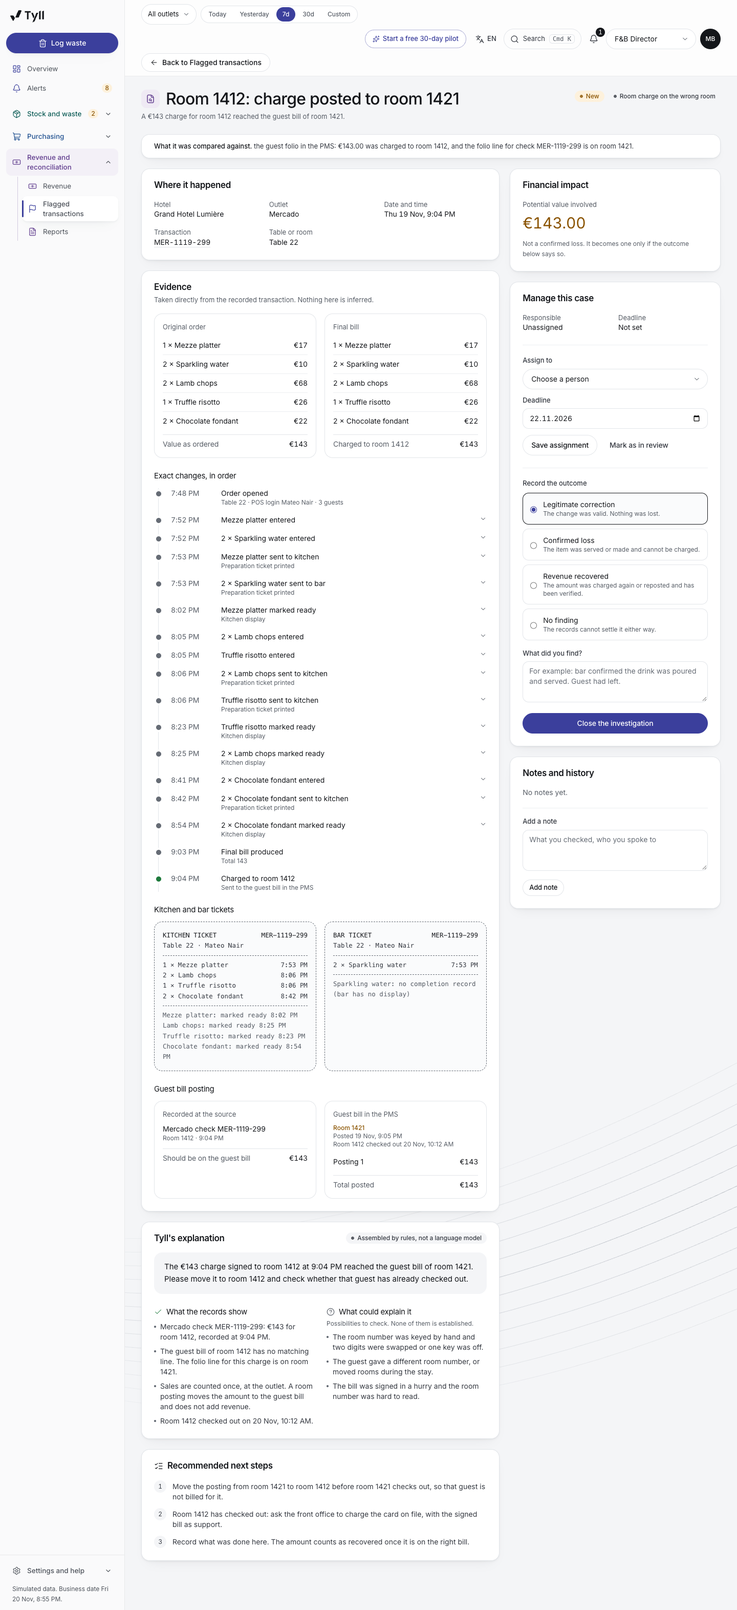
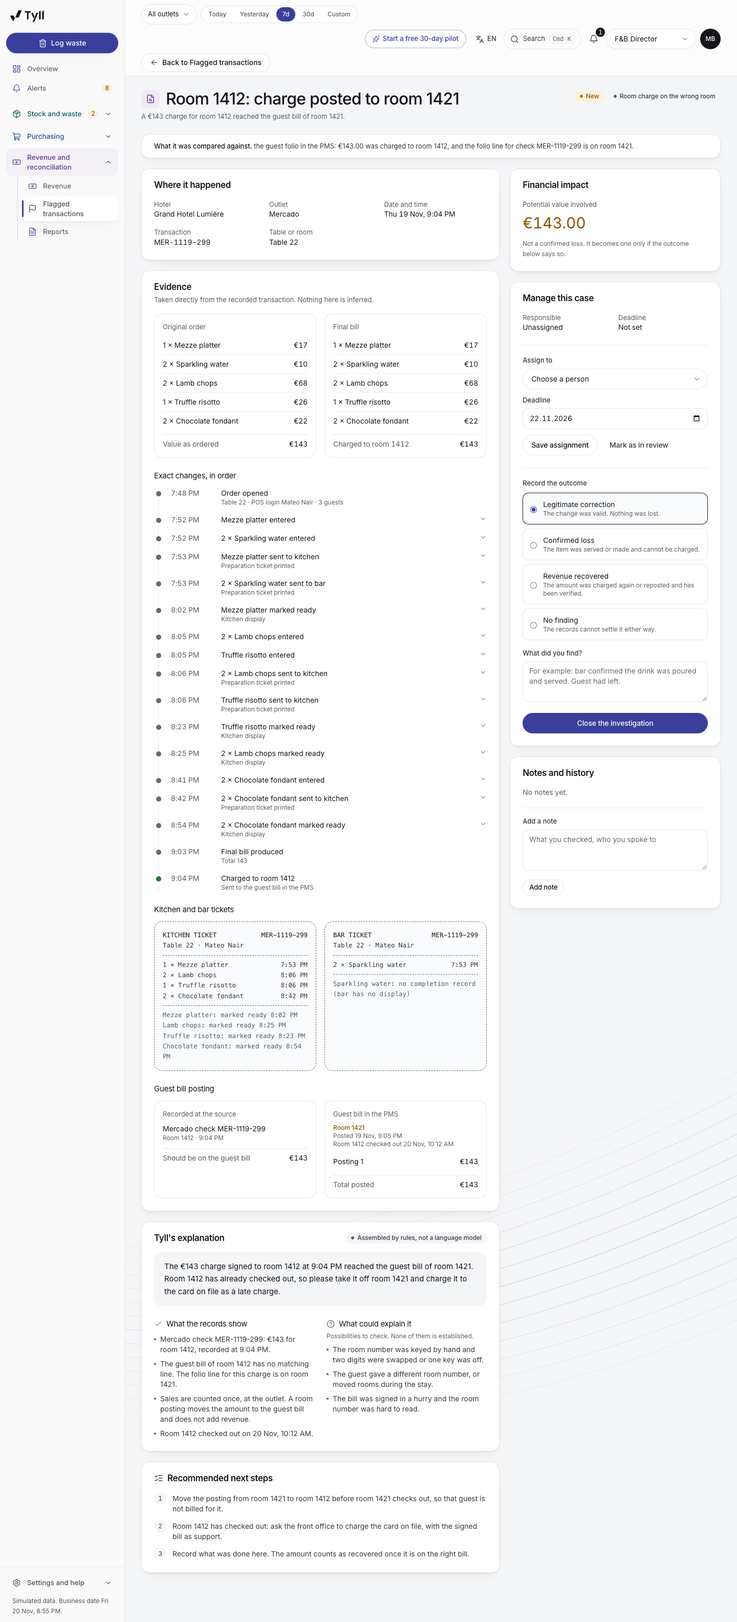
Feature 1: review fixes, room charges no longer take over the demo's money story
- Room charge difference rates in one constant (ROOM_RATES), lowered to about one charge in two hundred
- Minibar, spa and laundry simulated over the whole history, so the 30 day trend has no step
- Public demo keeps a stable 10% sample of other closed cases of the last 30 days besides the twelve newest
- Overview money lost on 20 Nov: EUR 10,642 (was 12,031); test pins room share and flagged bills total
- Flags per 1,000 orders counts each flagged order once
- Flagged orders names the charge source instead of "None"
- Wrong room message agrees with a recorded check-out (translated)

diff --git a/src/lib/data/generate.ts b/src/lib/data/generate.ts
@@ -260,6 +260,19 @@ function buildOrders(): Order[] {
   return orders;
 }
 
+/**
+ * How often a room charge fails to match the guest bill. An interfaced till and PMS lose very few postings, so these stay
+ * small: about one charge in two hundred, and room charges a minority of the flagged bills (pinned by a test).
+ */
+export const ROOM_RATES = {
+  missing: { outlet: 0.0008, minibar: 0.003, spa: 0.002, laundry: 0.002 },
+  duplicate: 0.0004,
+  amount: 0.0015,
+  /** A room number keyed one key off at an outlet till. */
+  wrongRoom: 0.0008,
+  afterCheckout: { minibar: 0.008, breakfast: 0.0015 },
+} as const;
+
 /** A room number one slip of the keyboard away: the last two digits swapped, or the last digit one off. */
 function neighbourRoom(room: string, r: Rng): string {
   const floor = room.slice(0, -2);
@@ -282,13 +295,13 @@ function withFolio(c: RoomCharge): RoomCharge {
   const clean = c.posted.length === 1 && c.posted[0] === c.expected;
   if (!clean) return { ...c, postedMin, checkoutMin };
   // A room number keyed by hand at an outlet till, one key off.
-  if (c.source === "restaurant" && r.chance(0.0025)) return { ...c, postedMin, checkoutMin, folioRoom: neighbourRoom(c.room, r) };
-  if (c.source === "minibar" && c.min < 13 * 60 && r.chance(0.07)) {
+  if (c.source === "restaurant" && r.chance(ROOM_RATES.wrongRoom)) return { ...c, postedMin, checkoutMin, folioRoom: neighbourRoom(c.room, r) };
+  if (c.source === "minibar" && c.min < 13 * 60 && r.chance(ROOM_RATES.afterCheckout.minibar)) {
     // Housekeeping found the minibar used when servicing a departure room, after the guest had gone. Rooms are serviced
     // late morning, and guests leave between 7 AM and noon, so only charges recorded before 1 PM can arrive this way.
     // Charges start at 8 AM, so check-out is always at least 15 minutes before the posting.
     checkoutMin = Math.min(12 * 60, Math.max(7 * 60, c.min - r.int(15, 150)));
-  } else if ((c.source === "restaurant" || c.source === "room_service") && c.min < 11 * 60 && r.chance(0.006)) {
+  } else if ((c.source === "restaurant" || c.source === "room_service") && c.min < 11 * 60 && r.chance(ROOM_RATES.afterCheckout.breakfast)) {
     // A breakfast posting held in the interface queue while the guest checked out.
     postedMin = c.min + r.int(75, 200);
     checkoutMin = c.min + r.int(10, postedMin - c.min - 5);
@@ -298,10 +311,11 @@ function withFolio(c: RoomCharge): RoomCharge {
 
 function buildRoomCharges(orders: Order[]): RoomCharge[] {
   const out: RoomCharge[] = [];
+  // The interface between the tills and the PMS rarely fails (ROOM_RATES).
   const posted = (expected: number, r: Rng, missRate: number): number[] => {
     if (r.chance(missRate)) return [];
-    if (r.chance(0.0025)) return [expected, expected];
-    if (r.chance(0.0035)) return [round2(expected * r.pick([0.5, 0.75, 0.9, 1.1]))];
+    if (r.chance(ROOM_RATES.duplicate)) return [expected, expected];
+    if (r.chance(ROOM_RATES.amount)) return [round2(expected * r.pick([0.5, 0.75, 0.9, 1.1]))];
     return [expected];
   };
   for (const o of orders) {
@@ -313,12 +327,12 @@ function buildRoomCharges(orders: Order[]): RoomCharge[] {
     out.push({
       id: `RC-${o.id}`, propertyId: outlet.propertyId, outletId: o.outletId, date: o.date, min: o.closeMin, room: o.room!,
       source: outlet.kind === "In-room dining" ? "room_service" : "restaurant", description: `${outlet.name} check ${o.id}`,
-      orderId: o.id, expected: t.net, posted: posted(t.net, r, 0.006),
+      orderId: o.id, expected: t.net, posted: posted(t.net, r, ROOM_RATES.missing.outlet),
     });
   }
-  // Minibar, spa and laundry postings for the last three weeks.
+  // Minibar, spa and laundry postings over the whole history, so every period and its trend compares like with like.
   for (const p of PROPERTIES) {
-    for (const date of eachDay({ from: addDays(DEMO_TODAY, -20), to: DEMO_TODAY })) {
+    for (const date of eachDay({ from: DATA_START, to: DEMO_TODAY })) {
       const r = rng(`svc|${p.id}|${date}`);
       const mk = (source: RoomCharge["source"], n: number, lo: number, hi: number, label: string, miss: number) => {
         for (let i = 1; i <= n; i++) {
@@ -332,9 +346,9 @@ function buildRoomCharges(orders: Order[]): RoomCharge[] {
           });
         }
       };
-      mk("minibar", r.int(16, 26), 5, 35, "Minibar consumption recorded by housekeeping", 0.016);
-      mk("spa", r.int(5, 10), 70, 240, "Spa treatment", 0.006);
-      mk("laundry", r.int(4, 9), 12, 65, "Laundry and pressing", 0.008);
+      mk("minibar", r.int(16, 26), 5, 35, "Minibar consumption recorded by housekeeping", ROOM_RATES.missing.minibar);
+      mk("spa", r.int(5, 10), 70, 240, "Spa treatment", ROOM_RATES.missing.spa);
+      mk("laundry", r.int(4, 9), 12, 65, "Laundry and pressing", ROOM_RATES.missing.laundry);
     }
   }
   return out.map(withFolio);

diff --git a/src/lib/__tests__/room-charges.test.ts b/src/lib/__tests__/room-charges.test.ts
@@ -117,6 +117,13 @@ describe("room charge data and totals", () => {
     const why = explain(e, d, d.counts, []);
     expect(why.recommended[0]).toContain(`from room ${ROOM_STORY.folioRoom} to room ${ROOM_STORY.room}`);
     expect(why.facts.join(" ")).toContain(`Room ${ROOM_STORY.room} checked out`);
+    // The message agrees with the facts: the guest has left, so it asks for the card on file, not whether they left.
+    expect(why.message).toContain(`Room ${ROOM_STORY.room} has already checked out`);
+    expect(why.message).not.toContain("check whether");
+    const inHouse = { ...c, id: "RC-INHOUSE", checkoutMin: undefined };
+    const ds = { ...d, chargesById: new Map([...d.chargesById, [inHouse.id, inHouse]]) };
+    const stay = explain({ ...e, id: "EX-INHOUSE", chargeId: inHouse.id }, ds, d.counts, []);
+    expect(stay.message).toContain("check whether that guest has already checked out");
   });
 
   it("keeps every open room charge case in the public demo, so each listed difference can be reviewed", () => {
@@ -211,8 +218,14 @@ describe("room charge check on the server", () => {
       // The check reaches no further back than the cases the public demo keeps.
       const far = roomCheckFor(fnb, { from: DATA_START, to: DEMO_TODAY });
       expect(far.ok && far.from).toBe(demoRoomCheckFrom());
-      // Closed room cases have their own rule, so twelve other closed cases per hotel stay too.
-      expect(kept.filter((e) => !ROOM_TYPES.includes(e.type) && d0.seedInvestigations[e.id].status === "closed").length).toBe(12);
+      // Closed room cases have their own rule, so the twelve newest other closed cases per hotel stay too, plus a share of
+      // the other closed cases of the last 30 days, and nothing older.
+      const otherClosed = d0.exceptions.filter((e) => !ROOM_TYPES.includes(e.type) && d0.seedInvestigations[e.id].status === "closed");
+      const newest = [...otherClosed].sort((a, b) => b.date.localeCompare(a.date)).slice(0, 12);
+      for (const e of newest) expect(keptIds.has(e.id)).toBe(true);
+      const keptClosed = otherClosed.filter((e) => keptIds.has(e.id));
+      expect(keptClosed.length).toBeGreaterThan(12);
+      for (const e of keptClosed) expect(newest.includes(e) || e.date >= demoRoomCheckFrom()).toBe(true);
     } finally {
       if (was === undefined) delete process.env.TYLL_PUBLIC_DEMO;
       else process.env.TYLL_PUBLIC_DEMO = was;
@@ -220,6 +233,28 @@ describe("room charge check on the server", () => {
     // Outside the public demo the check still reaches back to the start of the data.
     const full = roomCheckFor(fnb, { from: DATA_START, to: DEMO_TODAY });
     expect(full.ok && full.from).toBe(DATA_START);
+  });
+
+  it("keeps room charges a minority of the public demo's flagged bills, and the Overview's money lost near the story's figure", () => {
+    // The Overview's "Flagged bills" row: every case of the last 30 days that is not a stock count, open or closed.
+    const from = addDays(DEMO_TODAY, -29);
+    const bills = demoCases(d0.exceptions, d0.seedInvestigations).filter((e) => e.date >= from && !e.period);
+    const lost = bills.reduce((t, e) => t + e.exposure, 0);
+    const room = bills.filter((e) => ROOM_TYPES.includes(e.type)).reduce((t, e) => t + e.exposure, 0);
+    expect(room).toBeGreaterThan(0);
+    expect(room / lost).toBeLessThan(0.6);
+    // The other rows of money lost come to about EUR 9,400, so this keeps the headline near EUR 10,000 (CLAUDE.md).
+    expect(lost).toBeLessThan(1500);
+    // Room charge differences stay rare: under one charge in a hundred over the 30 days.
+    const charges = d0.roomCharges.filter((c) => c.date >= from);
+    expect(charges.filter((c) => classifyRoomCharge(c) !== "matched").length / charges.length).toBeLessThan(0.01);
+  });
+
+  it("simulates minibar, spa and laundry over the whole history, so the 30 day trend has no step", () => {
+    for (const source of ["minibar", "spa", "laundry"] as const) {
+      const days = new Set(d0.roomCharges.filter((c) => c.source === source).map((c) => c.date));
+      for (const date of eachDay({ from: addDays(DEMO_TODAY, -29), to: addDays(DEMO_TODAY, -1) })) expect(days.has(date)).toBe(true);
+    }
   });
 
   it("is reached from Flagged transactions in the sidebar", () => {

diff --git a/src/app/money/page.tsx b/src/app/money/page.tsx
@@ -22,7 +22,7 @@ import { POLICY, TYPE_LABEL, detectOrderException } from "@/lib/domain/detect";
 import { adjustmentRate, compare, computeTotals, exceptionInSel, totalsByOutlet } from "@/lib/domain/metrics";
 import { orderTotals } from "@/lib/domain/orders";
 import { useApi, useCtx, useInvestigations, usePatterns, useView } from "@/lib/hooks";
-import { STATUS_LABEL } from "@/lib/labels";
+import { SOURCE_LABEL, STATUS_LABEL } from "@/lib/labels";
 import { useDemo } from "@/lib/store";
 import type { ExceptionType, Order } from "@/lib/types";
 import { DEMO_TODAY, eachDay, fmtDate, fmtMoney, fmtNum, fmtPct, fmtRange, fmtShort, fmtTime, fxRate, presetRange, sum } from "@/lib/util";
@@ -269,7 +269,11 @@ function Mistakes() {
                 {[...inPeriod].sort((a, b) => Number(a.status === "closed") - Number(b.status === "closed") || toDisplay(b.propertyId, b.exposure) - toDisplay(a.propertyId, a.exposure)).slice(0, 8).map((i) => (
                   <tr key={i.id} className={cn(rowClass, "cursor-pointer")} onClick={() => router.push(`/investigations/${i.id}`)}>
                     <Td><Link href={`/investigations/${i.id}`} className="text-ink underline-offset-4 hover:underline" onClick={(e) => e.stopPropagation()}>{i.headline}</Link><span className="mt-0.5 block text-xs text-steel">{TYPE_LABEL[i.type]}{i.basis === "estimate" ? ", estimate until a stock take confirms it" : i.basis === "confirmed" ? ", confirmed by a stock take" : ""}</span>{i.comparedWith && <span className="mt-0.5 line-clamp-2 block max-w-[460px] text-xs text-graphite">{i.comparedWith}</span>}</Td>
-                    <Td>{i.outletId ? outletLabel(i.outletId) : "None"}</Td>
+                    <Td>{i.outletId ? outletLabel(i.outletId) : (() => {
+                      // Minibar, spa and laundry belong to the hotel, not an outlet: name the source, as the room charge check does.
+                      const charge = i.chargeId ? ctx.data.chargesById.get(i.chargeId) : undefined;
+                      return <span className="text-steel">{charge ? SOURCE_LABEL[charge.source] : propertyById[i.propertyId].name}</span>;
+                    })()}</Td>
                     <Td className="num whitespace-nowrap text-graphite">{fmtDate(i.date)}, {fmtTime(i.min)}</Td>
                     <Td align="right">{money(toDisplay(i.propertyId, i.exposure))}</Td>
                     <Td><Badge tone={i.status === "closed" ? "neutral" : i.status === "new" ? "warn" : "ink"}>{STATUS_LABEL[i.status]}</Badge></Td>

diff --git a/src/lib/data/demo-cases.ts b/src/lib/data/demo-cases.ts
@@ -1,11 +1,17 @@
 // The public demo shows a short, believable list of flags. The full set stays in the dataset and in every other mode.
 import { HERO_EXCEPTION_ID, ROOM_STORY_EXCEPTION_ID } from "./constants";
 import type { Exception, InvestigationState } from "../types";
-import { DEMO_TODAY, addDays } from "../util";
+import { DEMO_TODAY, addDays, rng } from "../util";
 
 const OPEN_OTHERS_PER_HOTEL = 3;
 const OPEN_MAX_PER_HOTEL = 12;
 const CLOSED_PER_HOTEL = 12;
+/**
+ * Besides the twelve newest, this share of the other closed cases of the last 30 days is kept, drawn by case id so a case
+ * stays in or out as the days move. The 30 day views then keep the same mix of kinds as the full data, without the
+ * Overview's money lost growing past the story's figure (about EUR 10,000).
+ */
+const CLOSED_SAMPLE = 0.1;
 
 /**
  * The first day of the room charge check in the public demo: the last 30 days, the longest period the check offers (a
@@ -18,8 +24,8 @@ const isRoom = (e: Exception) => e.type.startsWith("room_charge");
 
 /**
  * The worked examples, every room charge case in the last 30 days (the room charge check lists each one, so each needs
- * its case), then up to three of the largest other open cases while the hotel stays within twelve open, and the twelve
- * most recent other closed cases for each hotel.
+ * its case), then up to three of the largest other open cases while the hotel stays within twelve open, the twelve
+ * most recent other closed cases for each hotel, and a fixed share of the other closed cases of the last 30 days.
  */
 export function demoCases(exceptions: readonly Exception[], seed: Record<string, InvestigationState>): Exception[] {
   const keep = new Set<string>();
@@ -37,5 +43,6 @@ export function demoCases(exceptions: readonly Exception[], seed: Record<string,
   const closed = new Map<string, Exception[]>();
   for (const e of exceptions) if (seed[e.id]?.status === "closed" && !isRoom(e)) closed.set(e.propertyId, [...(closed.get(e.propertyId) ?? []), e]);
   for (const list of closed.values()) for (const e of [...list].sort((a, b) => b.date.localeCompare(a.date)).slice(0, CLOSED_PER_HOTEL)) keep.add(e.id);
+  for (const list of closed.values()) for (const e of list) if (e.date >= roomFrom && rng(`demo-case|${e.id}`).chance(CLOSED_SAMPLE)) keep.add(e.id);
   return exceptions.filter((e) => keep.has(e.id));
 }

diff --git a/src/lib/domain/explain.ts b/src/lib/domain/explain.ts
@@ -83,7 +83,11 @@ export function explain(e: Exception, data: Dataset, counts: readonly CountRecor
         charge.checkoutMin !== undefined ? `Room ${charge.room} has checked out: ask the front office to charge the card on file, with the signed bill as support.` : `Post the charge to room ${charge.room} while the guest is still in house.`,
         "Record what was done here. The amount counts as recovered once it is on the right bill.",
       ];
-      base.message = `The ${money(charge.expected)} charge signed to room ${charge.room} at ${fmtTime(charge.min)} reached the guest bill of room ${charge.folioRoom}. Please move it to room ${charge.room} and check whether that guest has already checked out.`;
+      base.message = `The ${money(charge.expected)} charge signed to room ${charge.room} at ${fmtTime(charge.min)} reached the guest bill of room ${charge.folioRoom}. ${
+        charge.checkoutMin !== undefined
+          ? `Room ${charge.room} has already checked out, so please take it off room ${charge.folioRoom} and charge it to the card on file as a late charge.`
+          : `Please move it to room ${charge.room} and check whether that guest has already checked out.`
+      }`;
     } else if (e.type === "room_charge_after_checkout") {
       if (charge.checkoutMin !== undefined && charge.postedMin !== undefined) base.facts.push(`The guest checked out on ${folioTime(charge.date, charge.checkoutMin)}. The posting reached the bill on ${folioTime(charge.date, charge.postedMin)}.`);
       base.whatHappened = `A ${money(posted)} charge for room ${charge.room} reached the guest bill after the guest had checked out.`;

diff --git a/src/lib/__tests__/domain.test.ts b/src/lib/__tests__/domain.test.ts
@@ -117,6 +117,17 @@ describe("financial aggregation", () => {
     expect(t.gpMargin).toBeLessThan(0.85);
   });
 
+  it("counts a bill once in flags per 1,000 orders, even with an order flag and a room charge flag", () => {
+    const base = data.exceptions.find((e) => e.orderId && !e.type.startsWith("room_charge") && e.date >= presetRange("week").from)!;
+    const room = { ...base, id: `${base.id}-RC`, type: "room_charge_missing" as const, chargeId: `RC-${base.orderId}` };
+    const minibar = { ...base, id: `${base.id}-MB`, type: "room_charge_missing" as const, orderId: undefined, outletId: undefined, chargeId: "RC-MB" };
+    const before = computeTotals(ctx(), sel()).adjustments;
+    const both = computeTotals(ctx({ data: { ...data, exceptions: [...data.exceptions, room, minibar] }, investigations: { [room.id]: { status: "new", notes: [], confirmedLoss: 0, recovered: 0 }, [minibar.id]: { status: "new", notes: [], confirmedLoss: 0, recovered: 0 } } }), sel());
+    // The same order flagged twice is still one flagged order; a minibar charge has no order to count.
+    expect(both.adjustments).toBe(before);
+    expect(both.flaggedCases).toBe(computeTotals(ctx(), sel()).flaggedCases + 2);
+  });
+
   it("adds outlets up to the group, in one currency", () => {
     const c = ctx();
     const group = computeTotals(c, sel());

diff --git a/src/lib/domain/metrics.ts b/src/lib/domain/metrics.ts
@@ -173,13 +173,18 @@ export function computeTotals(ctx: Ctx, sel: Sel): Totals {
   }
 
   let potentialLoss = 0, confirmedLoss = 0, recovered = 0, openCases = 0, flaggedCases = 0, adjustments = 0;
+  // Flagged orders are counted once each, so a bill with a discount flag and a room charge flag is one flagged order.
+  const flaggedOrders = new Set<string>();
   for (const e of ctx.data.exceptions) {
     if (e.date < sel.range.from || e.date > sel.range.to || !exceptionInSel(e, sel)) continue;
     const st = ctx.investigations[e.id] ?? ctx.data.seedInvestigations[e.id];
     const rate = fxRate(propertyById[e.propertyId].currency, sel.currency);
     flaggedCases += 1;
     // Room charge differences count when they belong to an outlet bill; minibar, spa and laundry have no order to count against.
-    if (!e.type.startsWith("room_charge") || e.orderId) adjustments += 1;
+    if (e.orderId) {
+      if (!flaggedOrders.has(e.orderId)) adjustments += 1;
+      flaggedOrders.add(e.orderId);
+    } else if (!e.type.startsWith("room_charge")) adjustments += 1;
     if (st.status === "closed") {
       confirmedLoss += st.confirmedLoss * rate;
       recovered += st.recovered * rate;

diff --git a/OVERNIGHT_LOG.md b/OVERNIGHT_LOG.md
@@ -87,7 +87,7 @@ Branch `feature/overnight-checks`, started from `feature/visit-tracking` (1fdbe6
 | # | Feature | Status | Notes |
 |---|---|---|---|
 | 0 | Learn the demo | done | Summary above, under "What the demo is made of" |
-| 1 | Room charge check | DONE | `/money?tab=rooms` (F&B Director u-fnb, also gm, fc, owner, restaurant manager for own outlets; worked example opens with `&open=example`). Story: last night's Mercado dinner for 3, signed to room 1412, posted to room 1421; 1412 checked out this morning. Case `EX-RC-MER-<yesterday MMDD>-299`. Screenshots `overnight-screenshots/01-room-charges-*.png`. Review fixes done: the check and the flags now reconcile in the public demo too (see "Review fixes" below). |
+| 1 | Room charge check | DONE | `/money?tab=rooms` (F&B Director u-fnb, also gm, fc, owner, restaurant manager for own outlets; worked example opens with `&open=example`). Story: last night's Mercado dinner for 3, signed to room 1412, posted to room 1421; 1412 checked out this morning. Case `EX-RC-MER-<yesterday MMDD>-299`. Screenshots `overnight-screenshots/01-room-charges-*.png`. Review fixes done in two rounds: the check and the flags reconcile in the public demo, and room charges no longer take over the demo's money story (Overview money lost EUR 10,642 on 20 Nov, see "Second review fixes" below). |
 | 2 | Bought against sold, per item | to do | |
 | 3 | Drinks per guest by waiter | to do | |
 | 4 | Empty bottle scan | to do | |
@@ -105,7 +105,7 @@ Branch `feature/overnight-checks`, started from `feature/visit-tracking` (1fdbe6
 
 **Rules (src/lib/domain/detect.ts):** `classifyRoomCharge` checks in a fixed order, the first that applies wins, so one charge raises one flag: missing, wrong room (`folioRoom` differs), after check-out (`postedMin > checkoutMin`, only when both are known), posted twice, different amount (beyond `POLICY.roomChargeTolerance`). `detectRoomChargeException` builds the flag from it. New flag types `room_charge_wrong_room` and `room_charge_after_checkout` (in `ROOM_TYPES`, `TYPE_LABEL`, explain.ts branches, ChargeEvidence shows the folio room, posting time and check-out). Totals and charts come from `src/lib/domain/room-charges.ts` (summary, by day, by source), which reuses the same rule, so the check and the flags agree to the cent.
 
-**Data (src/lib/data/generate.ts):** `RoomCharge` gained `folioRoom`, `postedMin` and `checkoutMin` (the PMS side), drawn by `withFolio` from its own random stream so earlier postings are unchanged. Wrong room: about 1 in 400 outlet till charges (one key off). After check-out: about 3% of minibar charges (found when servicing a departure room) and a few breakfast postings held in the interface queue. Story order `MER-<yesterday>-299` (`roomStoryOrder`, mezze, lamb chops, risotto, fondant, sparkling water, no Coke, wagyu or wine so the stock stories are untouched).
+**Data (src/lib/data/generate.ts):** `RoomCharge` gained `folioRoom`, `postedMin` and `checkoutMin` (the PMS side), drawn by `withFolio` from its own random stream. Every difference rate is in one constant, `ROOM_RATES` (second review: lowered so about 0.5% of charges differ). Wrong room: one key off at an outlet till. After check-out: minibar charges found when servicing a departure room, and a few breakfast postings held in the interface queue. Minibar, spa and laundry are simulated over the whole history (they were the last 21 days only). Story order `MER-<yesterday>-299` (`roomStoryOrder`, mezze, lamb chops, risotto, fondant, sparkling water, no Coke, wagyu or wine so the stock stories are untouched).
 
 **Server and API:** `src/lib/server/room-charges.ts` `roomCheckFor(user, {from, to, outlets, whole})` and `GET /api/money/rooms` behind `guard({ module: "money", permission: "roomcharge.view" })`. New permission `roomcharge.view` in the matrix; the snapshot now sends room charges (room numbers, check-out times) only to roles with it.
 
@@ -115,7 +115,7 @@ Branch `feature/overnight-checks`, started from `feature/visit-tracking` (1fdbe6
 - Server computed check (like the cash check) so the guest data and the scope rules are enforced on the server; the flags still come from the snapshot, and both read the same rule.
 - Room charge flags now count everywhere a flag counts: Flagged by type, Flagged orders, New this week, and Flags per 1,000 orders when they belong to an outlet bill (`orderId`); minibar, spa and laundry have no order to count against. Before, room types were left out of these lists, so the open count and the by type list did not add up. "Flagged by type" now shows the five largest with "Show all N types".
 - Seeds: room charge differences are closed after the night audit (any case from before today), except the story, which survived it because nothing failed. Closing notes match the kind (moved to the right room, charged to the card on file as a late charge).
-- Public demo (`demoCases`): keeps every open room charge case (the check lists each one, so each needs a case to review) and the story, then up to three other large open cases while the hotel stays within twelve open (the existing test caps it at 12). On 20 Nov: 12 open, 5 of them room charges, EUR 309 of EUR 572.
+- Public demo (`demoCases`, see also the second review fixes): keeps every open room charge case (the check lists each one, so each needs a case to review) and the story, then up to three other large open cases while the hotel stays within twelve open (the existing test caps it at 12). On 20 Nov: 12 open, 5 of them room charges, EUR 309 of EUR 572.
 
 **Checks:** tsc clean; eslint 0 errors (2 known warnings); vitest 26 files, 270 tests passed (14 new in `src/lib/__tests__/room-charges.test.ts`: rules and must not flag cases, order of checks, reconciliation of check against flags and by day and by source, story, demo keep rule, night audit seeds, server permission and scope, outlet selector, sidebar); build passed on the second run as expected.
 
@@ -131,5 +131,18 @@ Branch `feature/overnight-checks`, started from `feature/visit-tracking` (1fdbe6
 - *Removed content (low).* The note "Room-damage charge verification is planned and not part of this demo." is back, at the end of the simulated data note in the By source section (translated). The Reports link to room charges stays removed: CLAUDE.md says Reports lists only records with no sidebar item and never repeats a sidebar item, and `/money?tab=rooms` is now part of the Flagged transactions item (its `also` list), so a Reports link would repeat it. CLAUDE.md still names room charges among the Reports records; that line is now out of date.
 - *Checks after the review fixes:* tsc clean; eslint 0 errors (2 known warnings); vitest 26 files, 274 passed (4 new); build passed on the second run as expected; preview server restarted; screenshots re-taken (desktop, phone, Arabic, flags, plus `01-room-charges-flags-open-desktop.png` with the flags section open) and looked at.
 - *Side effect to weigh in the final polish pass:* in the public demo the flags page now holds every room charge case of the last 30 days but only 12 closed cases of the other kinds, so over 30 days the five largest types are all room charges (in the full dataset other kinds outnumber room charges about two to one). Over 7 days, the default, three of the five largest are room charges. Keeping more closed cases of the other kinds in the public demo would restore the balance; left as is, because it changes the existing trim rule beyond this feature.
+
+**Second review fixes (feature 1):**
+- *Room charges took over the public demo's money story (medium).* Confirmed with a probe on 20 Nov, public demo: "Flagged bills" EUR 2,656 lost, EUR 2,373 of it room charges (89%); Overview money lost EUR 12,031, saved 40.1% (before the feature: EUR 9,880 lost, about 35% saved, Flagged bills EUR 506 lost and EUR 133 saved). Two changes:
+  1. *Fewer differences in the data.* All rates are now in `ROOM_RATES` in generate.ts: missing 0.08% of outlet charges (was 0.6%), minibar 0.3% (was 1.6%), spa and laundry 0.2%, posted twice 0.04% (was 0.25%), different amount 0.15% (was 0.35%), wrong room 0.08% (was 0.25%), minibar after check-out 0.8% of morning charges (was 7%), breakfast held in the queue 0.15% (was 0.6%). An interfaced till and PMS rarely lose a posting, so about one charge in two hundred now differs. Story numbers unchanged (story case, hero order, wagyu, Coke, house wine, beef invoice all pinned by the existing tests, which pass).
+  2. *A wider window for the other kinds, not all of them.* The reviewer asked to keep every closed non room case of the last 30 days. Measured, that alone puts Flagged bills at about EUR 2,800 before any room charge, so the Overview would read about EUR 12,200 and miss the EUR 10,000 target in CLAUDE.md. Chosen instead: `demoCases` keeps the twelve newest other closed cases per hotel (as before) plus a fixed 10% of the other closed cases of the last 30 days, drawn by case id (`rng("demo-case|<id>")`), so a case stays in or out as the days move and the older weeks of the 30 day views are not left to room charges alone. 15% and 20% were tried: 15% gives EUR 11,151 on 20 Nov (one EUR 272 banquet comp falls in the sample), 20% more again.
+  - *Result on 20 Nov, public demo:* Overview money lost EUR 10,642 (was 12,031), saved EUR 3,773 or 35.5% (was 40.1%, before the feature about 35%; the drop is the room charge recoveries that are gone). Flagged bills EUR 1,267 lost, EUR 435 saved; room charges EUR 744 of it (59%). Room check 30 days: 19 differences, EUR 744 (missing 6 for EUR 246, posted more than once 3 for EUR 172, after check-out 4 for EUR 167, wrong room 1 for EUR 143, different amount 5 for EUR 16); 7 days: 7 differences, EUR 318, 99.1% posted correctly. Flags page, 7 days (default): Flagged by type is led by wrong room EUR 143 (the story), complimentary items, unusual refund, then posted more than once and missing; Flags per 1,000 orders is led by Mercado (20.5) again, In-Room Dining 10.0. Over seven dates probed (13 Oct to 3 Dec) the Overview read EUR 10,270 to 10,640 and the room share of Flagged bills 34% to 59%.
+  - *Left as is:* in the 30 day view of the public demo, In-Room Dining (10.0, all room charges) still leads Flags per 1,000 orders over Mercado (6.6), because the demo keeps every room case but a sample of the others. Keeping more of the others would push the Overview past EUR 10,000; the default 7 day view shows Mercado first. The saved share sits at 35%, under the story's 40%, as it did before this feature; raising it is a seeding question for the final polish pass, not for this feature.
+  - *Tests:* the trim test now checks the twelve newest plus the sample and that nothing older than 30 days is kept (it used to expect exactly twelve); a new test pins, in public demo mode, room charges below 60% of Flagged bills lost, Flagged bills below EUR 1,500 (so the Overview stays near EUR 10,000) and differences under 1% of charges. The probe itself was a throwaway file, not committed.
+- *Outlet "None" in Flagged orders (low).* Fixed: a case with no outlet now shows its charge source (Minibar, Spa, Laundry, from `chargesById`), or the hotel name when there is no charge, in grey, as the Money Back List does.
+- *Flags per 1,000 orders counted a bill twice (low).* Fixed in `computeTotals`: flags with an `orderId` count once per order, so a bill with a discount flag and a room charge flag is one flagged order; flags with no order count as before (stock cases yes, minibar, spa and laundry no). The "N of M orders" label is now true, and the Reports export's adjustments figure follows. Test added with one order carrying both kinds plus a minibar flag.
+- *30 day trend stepped up three weeks ago (low).* Fixed at the source: minibar, spa and laundry are simulated over the whole history, so charges checked per day no longer jump (test: every day of the last 30 has all three sources). The chart may still read "trending up": the planted story (EUR 143, yesterday) and today's posted twice charge sit at the end of a sparse line. That is real money in the data, not an artefact, so the verdict is left to the existing rule.
+- *Wrong room message contradicted the facts (low).* Fixed in explain.ts: when a check-out is recorded the message says the room has already checked out and asks to take the charge off the other room and charge the card on file as a late charge; the "check whether" wording stays only when no check-out is known. Translated (de, it, ar). Tests for both wordings.
+- *Checks:* tsc clean; eslint 0 errors (2 known warnings); vitest 26 files, 277 passed (3 new tests, 2 extended); build passed on the second run as expected; preview server restarted; screenshots re-taken and looked at: `01-room-charges-overview-desktop.png` (new, the Overview headline), `01-room-charges-desktop.png`, `-phone.png`, `-ar.png`, `-flags-desktop.png`, `-case-desktop.png`.
 
 **Next:** feature 2, Bought against sold, per item.
